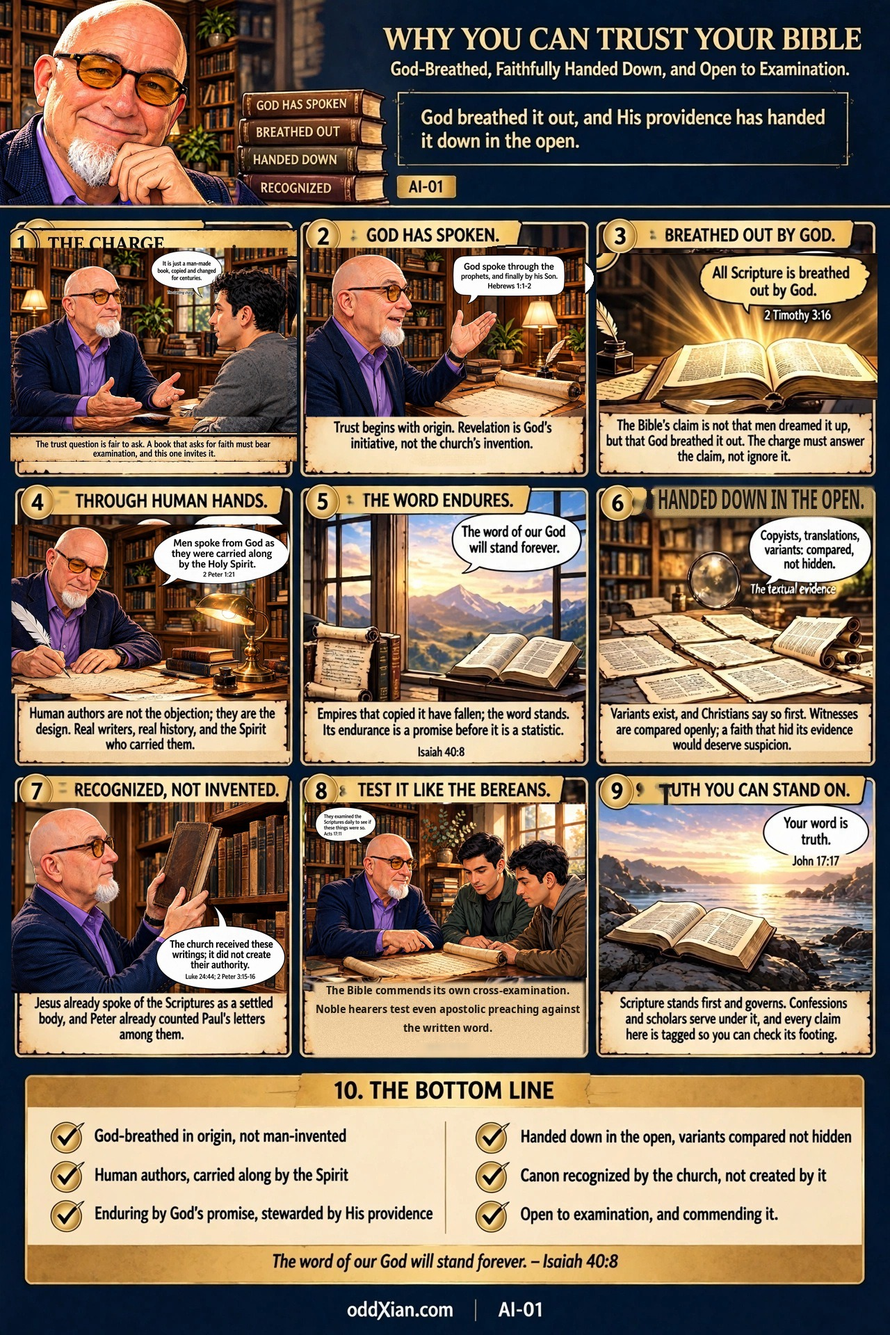
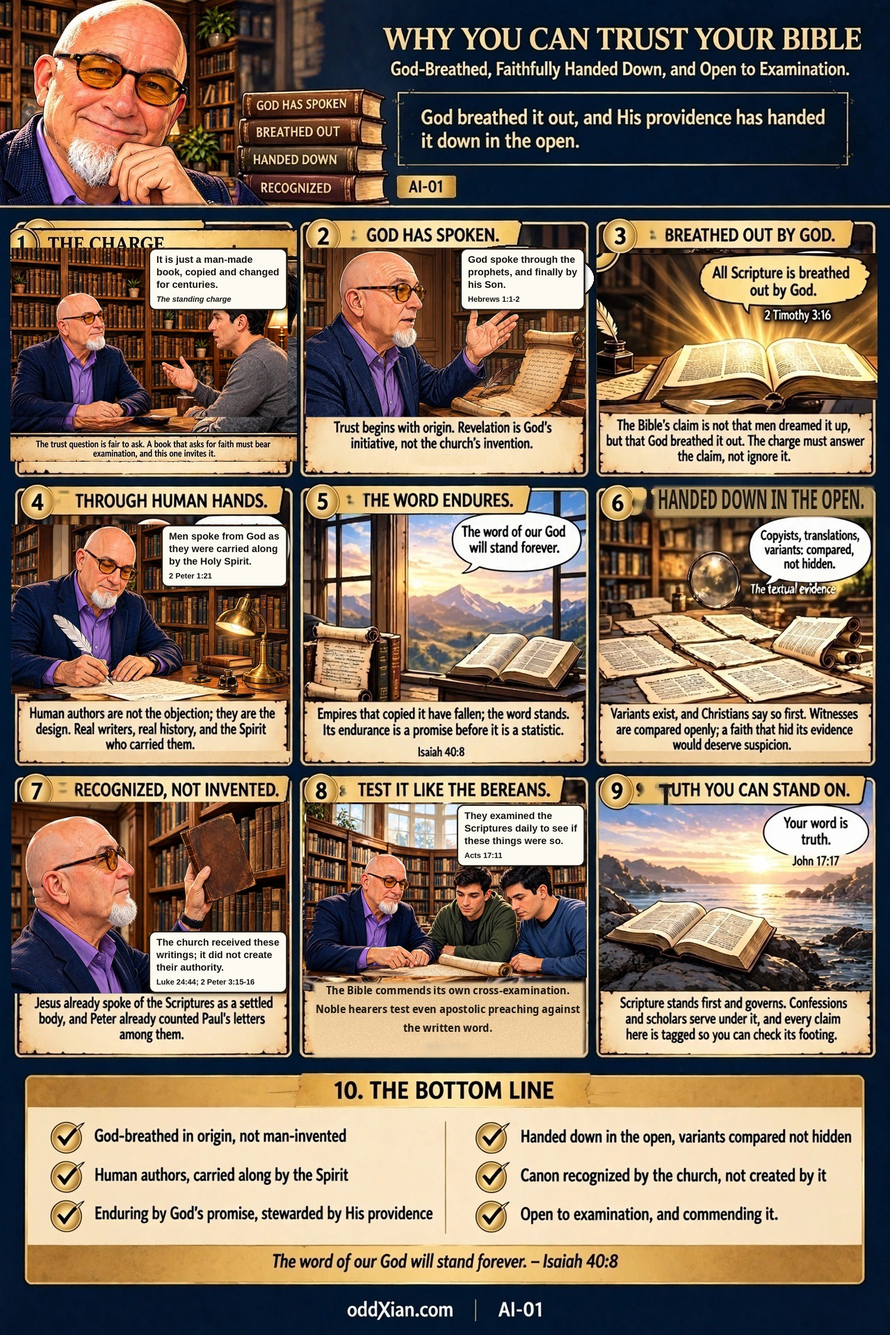
AI-01 revision 6: anchored quotation cards (JD direction)
JD on revision 5: the oval speech bubbles float, unanchored. His standard
(The Eternal Decree and Covenant): quotations in outlined rectangular cards
anchored flush to the scene frame. Revision 6 regenerates the five host-panel
scenes bubble-free from the portrait v2 likeness set and typesets the
quotations as anchored cards (reference inside each card at its foot), so the
lettering is exact by construction. Discarded rather than squeezed: a 3:1
panel 1 and two head-filling compositions. All five cards verified at 3x;
pixel diff confined to the five scene boxes; header and panels 3, 5, 6, 9, 10
unchanged. STYLE-GUIDE gains the standing quotation-card rule. Nothing merged
or published; JD's approval still governs.

Human-Curated, AI-Enabled (HCAE)

Changed region(s): [[0.0, 0.5938, 0.6562, 0.75], [0.0, 0.1875, 0.6875, 0.3125], [0.0, 0.375, 0.3438, 0.5312]]

diff --git a/apologetics-illustrated/volumes/AI-01/TRANSCRIPTION.md b/apologetics-illustrated/volumes/AI-01/TRANSCRIPTION.md
@@ -83,3 +83,13 @@ Panel 10. THE BOTTOM LINE. God-breathed in origin, not man-invented / Human auth
 Footer: oddXian.com | AI-01
 
 Human-Curated, AI-Enabled (HCAE)
+
+## Revision 6: anchored quotation cards (JD direction, 2026-11-01)
+
+JD's ruling on revision 5: its oval speech bubbles FLOAT, unanchored. His exemplar (The Eternal Decree and Covenant) sets the standard: quotations sit in rectangular cards with a thin outline, anchored flush to the scene frame's edge, no tails. Revision 6 rebuilds the five host panels to that standard:
+
+- The five host-panel scenes were regenerated with NO bubble and NO text, from the portrait v2 likeness reference plus JD's front and side photos (style guide image and exemplar passed as references on every call). Two first attempts were discarded rather than squeezed: a panel 1 generation at 3:1 ultra-wide, and head-filling compositions for panels 1 and 8 that left no anchored-card space; the accepted scenes seat the subjects low with bookshelf headroom.
+- The quotations were then TYPESET as anchored cards (warm-white rounded rectangle, thin dark outline, soft shadow), flush to the top edge of each scene (panel 7: bottom edge, where its composition requires it), each reference inside its card at the foot. Because the lettering is typeset rather than generated, it is exact by construction; all five cards were verified at 3x magnification.
+- Header and panels 3, 5, 6, 9, and 10 are revision 5's artwork unchanged; a pixel diff confirms changes are confined to the five scene boxes.
+- The standing charge label on panel 1 stands inside its card in italic, matching its earlier treatment as a label rather than a scripture reference.
+- Carried deviations unchanged: the header framing box carries the one-line answer only; panel 3's bubble is parchment-toned; panel 10's closing panel is cream and gold rather than navy. Panels 3, 5, 6, and 9 keep their generated oval bubbles; the card standard governs host-panel quotations and future volumes.

diff --git a/apologetics-illustrated/QA-LOG.md b/apologetics-illustrated/QA-LOG.md
@@ -46,3 +46,13 @@
 - Standing lessons added: (1) a panel's scene frame must be measured on the actual plate, not inferred from its row: panel 7's bubble reaches some 25px lower than panel 8's frame. (2) Feather a composite edge only over content that can show through safely; over lettering (the header book stack) even a 15px feather ghosts the old letters through.
 
 Human-Curated, AI-Enabled (HCAE)
+
+
+## AI-01 revision 6: anchored quotation cards (2026-11-01)
+
+Trigger: JD on revision 5: the speech bubbles float, unanchored; The Eternal Decree and Covenant plate supplied as the style standard.
+
+- All five host panels rebuilt: bubble-free scene generations (portrait v2 likeness set), composited into the revision 5 plate; quotations typeset as warm-white rounded-rectangle cards with thin dark outline, anchored flush to the scene's top edge (panel 7 bottom edge), reference inside each card at its foot.
+- Discarded, not squeezed: panel 1 at 3:1 ultra-wide; panels 1 and 8 first compositions whose heads filled the frame (no card space). Accepted scenes seat subjects low.
+- QA: all five cards read at 3x magnification: PASS, lettering exact by construction (typeset). Pixel diff against revision 5: changes confined to the five scene boxes.
+- Standing lessons added: (6) Quotations on host panels are anchored cards, never floating ovals: rectangular card, thin outline, flush to a scene-frame edge, no tail, reference inside at the foot (exemplar: The Eternal Decree and Covenant). (7) When a quotation treatment will be typeset over a generated scene, direct the generation's composition for it: subjects low, headroom at the anchor edge. (8) Typeset lettering beats generated lettering wherever the layout allows it: exactness stops depending on the generator.

diff --git a/apologetics-illustrated/STYLE-GUIDE.md b/apologetics-illustrated/STYLE-GUIDE.md
@@ -32,3 +32,8 @@ Section pages on the GitHub Pages site follow the illustrated-systematics pages:
 - **Category and content:** nothing about the shared style makes a defense plate into doctrine or a doctrine plate into a defense. Filing follows the charter, not the artwork.
 
 Human-Curated, AI-Enabled (HCAE)
+
+
+## Quotation cards (JD ruling, 2026-11-01)
+
+Quotations on host panels are anchored cards, never floating oval bubbles (the defect JD corrected in AI-01 revision 5, exemplar: The Eternal Decree and Covenant). The card is a warm-white rounded rectangle with a thin dark outline, set flush against the scene frame's top edge (bottom edge only where the composition requires it), with no tail. The scripture reference stands inside the card at its foot. Card lettering is typeset, not generated, so it is exact by construction. Scene generations for card panels are directed with the subjects seated low and plain background at the anchor edge.

diff --git a/apologetics-illustrated/volumes/AI-01/PANEL-SCRIPT.md b/apologetics-illustrated/volumes/AI-01/PANEL-SCRIPT.md
@@ -115,3 +115,5 @@ On the plate, panel titles carry no numbers; the gold badge carries the panel nu
 - [x] Cross-references filed both ways (this volume and BWM-IS-03)
 
 Human-Curated, AI-Enabled (HCAE)
+
+- [x] Revision 6 (2026-11-01): host-panel scenes regenerated bubble-free; quotations typeset as anchored cards per JD's exemplar ruling; all five cards verified exact at 3x; pixel diff confined to the five scene boxes; PR #25 updated, nothing merged.
